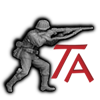
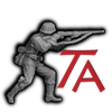
Google search result enhancement (#293)
* Add Google Metadata

* Use image on website

diff --git a/_includes/head.html b/_includes/head.html
@@ -11,4 +11,13 @@
 
   <link rel="shortcut icon" href="{{ '/images/favicon.ico' | prepend: site.baseurl }}" type="image/x-icon">
   <link rel="icon" href="{{ '/images/favicon.ico' | prepend: site.baseurl }}" type="image/x-icon">
+
+  <script type="application/ld+json">
+  {
+    "@context": "http://schema.org",
+    "@type": "Organization",
+    "url": "http://triplea-game.org",
+    "logo": "http://triplea-game.org/images/icon_menu.png"
+  }
+  </script>
 </head>
